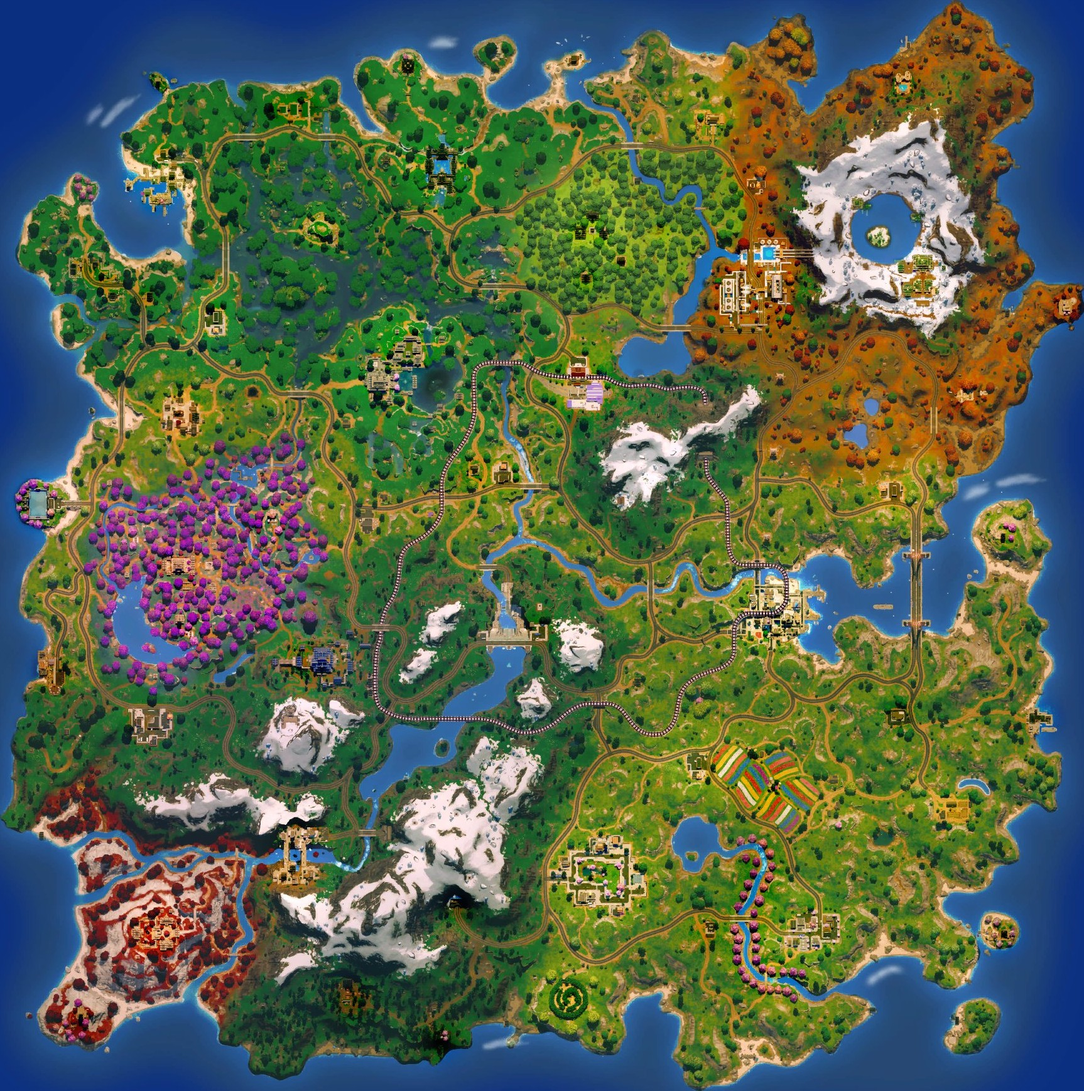
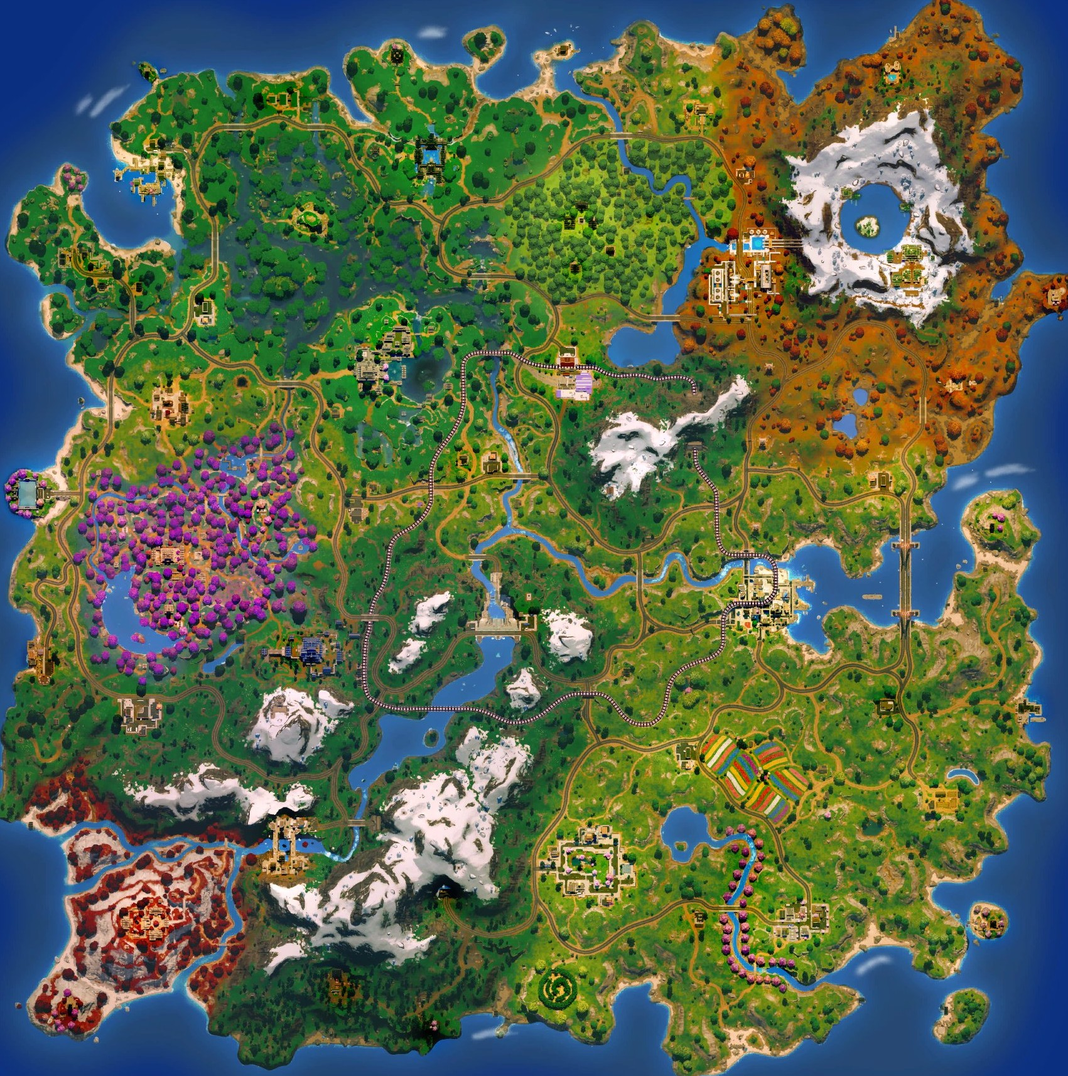
Play the 2025 Major on its own island
Until now the mode ran on Chapter 7 Season 3, because useLandingSet falls
back to m2 for any set with no zones of its own. It now has both the
Chapter 6 island and eighteen real drop spots, which had to land together
or the fallback would have painted Chapter 7 rectangles on a Chapter 6
map.

The spots are the ones teams actually took in the European Grand Final,
read off the published drop map rather than drawn by hand. Getting them
to line up was the whole difficulty: rectangles measured on a screenshot
are meaningless against a map framed differently. Both images are
therefore reduced to the island itself, found by land density per row and
column, and the zones are percentages of that. The two independently
measured islands agree on aspect to 0.993 against 0.992, which is what
says they describe the same place.

Eighteen rather than the full thirty-odd. Black-outlined boxes are read
as line segments and red translucent ones as filled regions -- treating
the red ones as outlines had been shredding each into a stack of stripes
-- but boxes sharing an edge still defeat the detector. Eighteen measured
spots beat forty invented ones, and the rest can be added later.

One general rule changed with it. The zone trim exists so a forty-box
island does not read as a wall of rectangles; applied to a sparse set it
just stacks teams on each other, cutting eighteen spots to twelve for
thirty-three teams. It now leaves small sets alone. Both 2026 islands
[…]

diff --git a/index.html b/index.html
@@ -23084,9 +23084,10 @@ const POI_COORDS=[
 // references to individual zone objects) — only its contents are swapped.
 const MAP_ART={
   m1:"art/map-m1.jpg",
-  m2:"art/map-m2.jpg"
+  m2:"art/map-m2.jpg",
+  t1:"art/map-t1.jpg"
 };
-const MAP_ASPECT={m1:'1100/1142', m2:'1100/970'};
+const MAP_ASPECT={m1:'1100/1142', m2:'1100/970', t1:'1701/1714'};
 // ---------- Real drop-spot data (Kinch Premium competitive evals) ----------
 // Zone quality used to be guessed from the rectangle: bigger box = more points.
 // These are the published numbers for the seasons the two islands are from —
@@ -23132,6 +23133,40 @@ const ZONE_STATS={
   ]
 };
 const ZONE_SETS={
+  // FNCS 2025 played on the Chapter 6 island. These are the spots teams
+  // actually took in the European Grand Final, read off the published drop map
+  // rather than drawn by hand -- see tools/extract-zones.js.
+  //
+  // They are percentages of the ISLAND, not of the screenshot they were
+  // measured on, which is why art/map-t1.jpg is cropped to the island too. The
+  // two frames were matched by measuring land density per row and column in
+  // each image; both put the island at an aspect of 0.99, which is the check
+  // that they describe the same thing.
+  //
+  // Eighteen, not the full grid. The detector reads black-outlined boxes from
+  // line segments and red translucent ones as filled regions, and a handful of
+  // boxes that share an edge still defeat it. Adding the rest is worth doing;
+  // eighteen real spots beat forty invented ones in the meantime.
+  t1:[
+    {x:52.21,y:0,w:38.8,h:16.43},
+    {x:0.48,y:4.55,w:20.3,h:21.46},
+    {x:21.77,y:4.55,w:11.12,h:22.76},
+    {x:49.76,y:14.31,w:13.58,h:14.79},
+    {x:78.9,y:14.63,w:21.1,h:14.31},
+    {x:34.21,y:19.19,w:14.08,h:8.46},
+    {x:0.65,y:26.83,w:19.96,h:20.16},
+    {x:28.81,y:28.62,w:18,h:15.61},
+    {x:51.05,y:30.41,w:27.17,h:16.43},
+    {x:37,y:47.47,w:18.5,h:14.14},
+    {x:8.51,y:47.97,w:14.73,h:9.26},
+    {x:62.68,y:47.97,w:16.86,h:14.47},
+    {x:24.39,y:55.12,w:11.46,h:11.7},
+    {x:81.18,y:61.95,w:18.33,h:17.56},
+    {x:61.7,y:62.93,w:18.5,h:16.58},
+    {x:23.4,y:67.64,w:25.54,h:17.72},
+    {x:3.44,y:77.07,w:18.98,h:18.22},
+    {x:61.22,y:80.16,w:19.32,h:19.84}
+  ],
   m1:[
     {x:24.92,y:8.0,w:20.87,h:11.73},
     {x:46.73,y:9.88,w:10.91,h:11.59},
@@ -23226,6 +23261,10 @@ const LANDING_ZONE_SHARE={2:1, 3:0.68, 4:0.52};
 function trimLandingZonesForMode(){
   const share=LANDING_ZONE_SHARE[squadSize] || 1;
   if(share>=1) return;
+  // The trim exists to stop a forty-box island reading as a wall of rectangles.
+  // A set that is already sparse has nothing to declutter, and thinning it just
+  // stacks teams on top of each other.
+  if(ALL_LANDING_ZONES.length<=20) return;
   const keep=Math.max(12, Math.round(ALL_LANDING_ZONES.length*share));
   const ranked=ALL_LANDING_ZONES
     .map((z,i)=>({z, i, area:z.w*z.h}))
